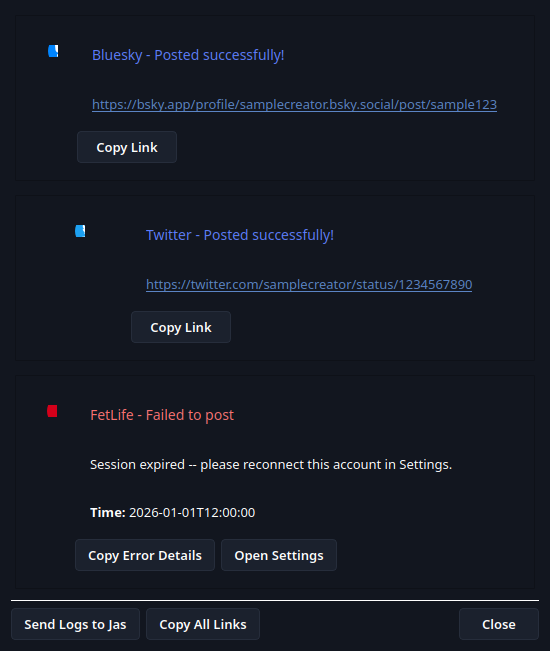
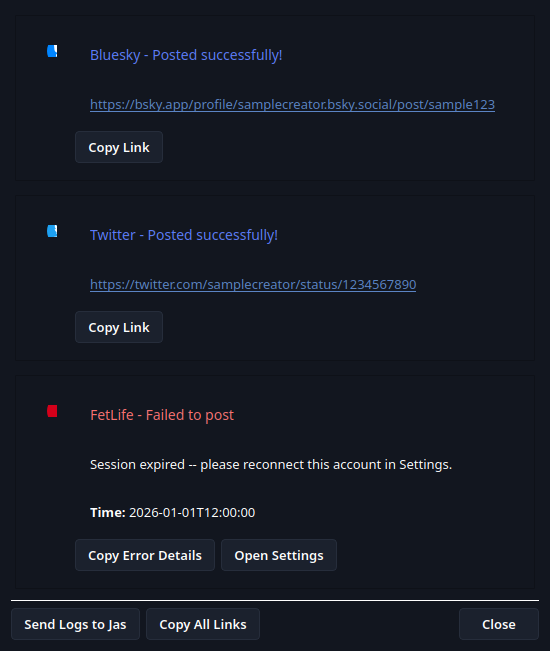
Fix results dialog badge misalignment for short post URLs
The "Copy Link" button's setMaximumWidth(100) was becoming
content_layout's own maximumWidth (a QVBoxLayout's max width is the min
of its children's), starving its stretch=1 share of row_layout and
pushing the platform badge out of its flush-left position whenever the
post URL was short enough to leave slack. Aligning the button instead of
letting it constrain the whole column fixes it. Caught while regenerating
the README screenshots -- the Twitter row's badge was visibly offset from
Bluesky's and FetLife's.

🌸 Shipped with Kanna — https://kanna.sh

Kanna-Agent: claude/sonnet

diff --git a/src/gui/results_dialog.py b/src/gui/results_dialog.py
@@ -240,7 +240,11 @@ class ResultsDialog(QDialog):
             copy_btn.setMaximumWidth(100)
             post_url = result.post_url
             copy_btn.clicked.connect(lambda _, url=post_url: self._copy_text(url))
-            content_layout.addWidget(copy_btn)
+            # Without an explicit alignment, this button's maximumWidth becomes
+            # content_layout's own maximumWidth (a QVBoxLayout's max width is the
+            # min of its children's), which starves its stretch=1 share in
+            # row_layout and pushes the badge out of its flush-left position.
+            content_layout.addWidget(copy_btn, alignment=Qt.AlignmentFlag.AlignLeft)
 
         row_layout.addLayout(content_layout, 1)
         layout.addLayout(row_layout)
